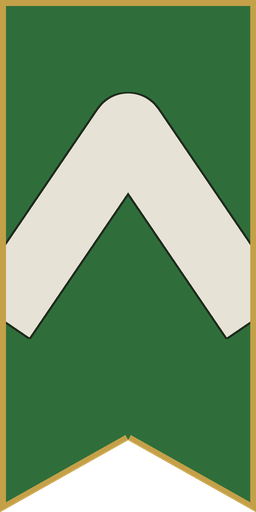
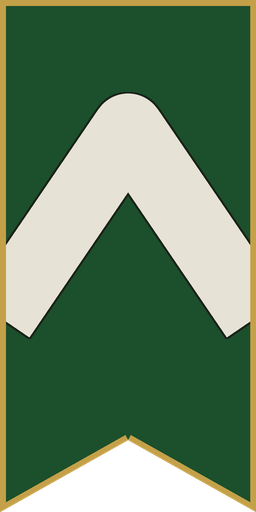
Darker vert, and regions that answer to no crown left unshaded on the Realms map (#11144)
Patch: Daggerfall's green should stand out from the forest, so vert darkens
at its one home in heraldry.json; the arms art is rendered again and the
map, banners and livery follow. Review R11144-1: an independent region is
outlined only, not shaded in its own colours, and the key says so.

diff --git a/src/ui/atlas.ts b/src/ui/atlas.ts
@@ -116,7 +116,7 @@ export interface AtlasRealm {
   readonly arms: string;
   readonly path: string;
   readonly colour: string;
-  /** Whether a crown's: a liege's region is shaded fully, one answering to no one faintly. */
+  /** Whether a crown's: a liege's region is shaded, one answering to no crown left unshaded. */
   readonly liege: boolean;
 }
 
@@ -597,8 +597,9 @@ export function mountAtlas(requestTiles: (tiles: readonly [number, number, numbe
         for (const region of regions ?? []) {
           const shape = document.createElementNS(SVG, 'path');
           // The window's Servo draws SVG from its markup alone, without the page's stylesheet.
-          for (const [name, value] of [['d', region.path], ['fill', region.colour], ['fill-opacity', region.liege ? '.42' : '.14'],
-            ['fill-rule', 'nonzero'], ['stroke', region.colour], ['stroke-opacity', region.liege ? '.8' : '.35'], ['stroke-width', '.6']] as const)
+          // A crown's region is shaded in its arms' colour; one that answers to no crown is left unshaded, outlined only.
+          for (const [name, value] of [['d', region.path], ['fill', region.liege ? region.colour : 'none'], ['fill-opacity', region.liege ? '.42' : '0'],
+            ['fill-rule', 'nonzero'], ['stroke', region.liege ? region.colour : '#2a2622'], ['stroke-opacity', region.liege ? '.8' : '.35'], ['stroke-width', '.6']] as const)
             shape.setAttribute(name, value);
           shape.dataset.region = String(region.region);
           shape.dataset.arms = region.arms;

diff --git a/src/ui/world-map.ts b/src/ui/world-map.ts
@@ -183,19 +183,18 @@ export function mountWorldMap(parent: HTMLElement, send: (action: WorldMapAction
     redraw(realmKey, JSON.stringify(on ? realms!.key : []), () => {
       realmKey.replaceChildren();
       if (!on) return;
-      const line = (colour: string, text: string, tooltip: string | null, faint: boolean, arms?: string): HTMLLIElement => {
+      const line = (colour: string | null, text: string, tooltip: string | null, arms?: string): HTMLLIElement => {
         const item = document.createElement('li');
         if (arms) item.dataset.arms = arms;
         const swatch = document.createElement('span');
         swatch.className = 'dagger-world-map-realm-swatch';
-        swatch.style.background = colour;
-        if (faint) swatch.style.opacity = '.45';
+        swatch.style.background = colour ?? 'transparent';
         item.append(swatch, text);
         if (tooltip) item.dataset.tooltip = tooltip;
         return item;
       };
-      for (const crown of realms!.key) realmKey.append(line(crown.colour, crown.name, crown.blazon, false, crown.arms));
-      realmKey.append(line('#b9ad8f', 'Answers to no crown', 'Shown faintly in its own colours.', true));
+      for (const crown of realms!.key) realmKey.append(line(crown.colour, crown.name, crown.blazon, crown.arms));
+      realmKey.append(line(null, 'Answers to no crown', 'Left unshaded.'));
     });
   };
   realmsToggle.addEventListener('change', () => drawRealms(current));

diff --git a/src/WorldRpg.Rulesets.Daggerfall/UiProjection/DaggerfallRealmsMap.cs b/src/WorldRpg.Rulesets.Daggerfall/UiProjection/DaggerfallRealmsMap.cs
@@ -12,7 +12,7 @@ internal sealed record DaggerfallRealmKey(string Arms, string Name, string Blazo
 /// <summary>
 /// The world map's Realms view (#11144, Patch: a toggled view): each board region's shape, shaded by the arms it shows
 /// now, with a key of the crowns that hold regions. A region that answers to a crown takes the crown's colour; one that
-/// answers to no one shows its own, faintly. The page toggles the view and draws it; this is read fresh each time.
+/// answers to no one is left unshaded. The page toggles the view and draws it; this is read fresh each time.
 /// </summary>
 internal sealed record DaggerfallRealmsView(IReadOnlyList<DaggerfallRegionOutline> Outlines, IReadOnlyList<DaggerfallRealmShade> Regions,
     IReadOnlyList<DaggerfallRealmKey> Key);
